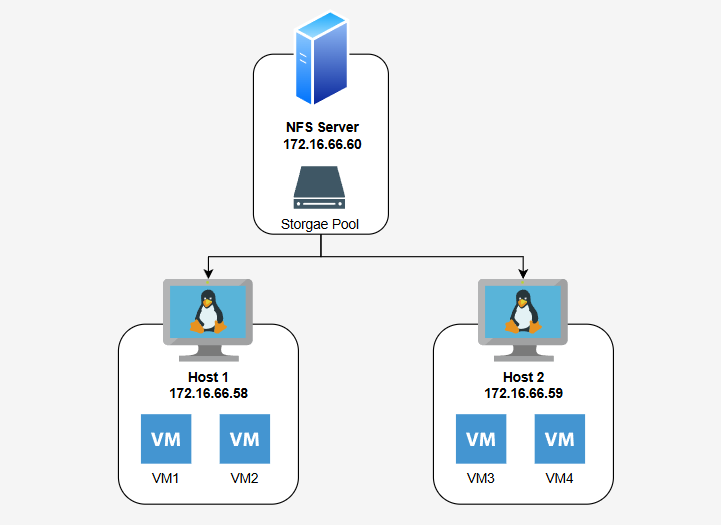
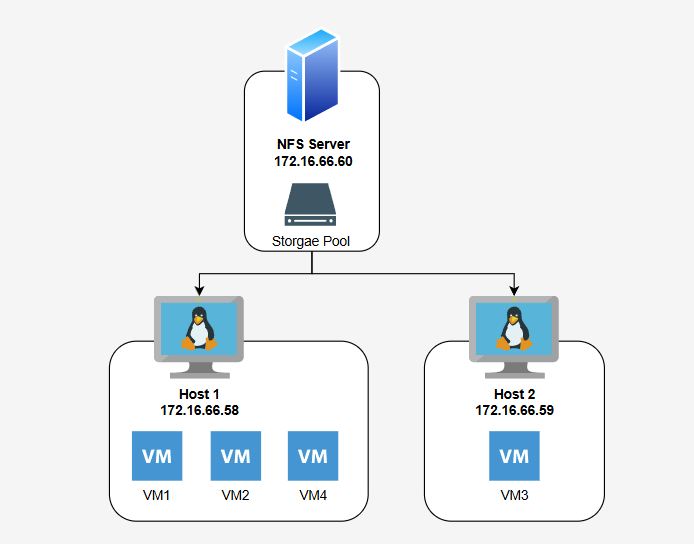
update KVMWebVirtCloud

diff --git a/DucManh/KVM/Labs/15.KVMLab07.md b/DucManh/KVM/Labs/15.KVMLab07.md
@@ -1,0 +1,204 @@
+# Triển khai và sử dụng WebVirtCloud
+## Mục tiêu
+Cài đặt thủ công và sử dụng WebVirtCloud để thực quản lý các VM trong hệ thống KVM
+
+Để hiểu sâu và nắm được bản chất cách vận hành, bài lab này sẽ thực hiện cài đặt và cấu hình thủ công
+## Mô hình
+3 thiết bị
+- `.58` Host 1
+- `.59` Host 2
+- `.60` Server
+# Phân tải hệ thống
+|Thành phần|Tài nguyên tiêu tốn chính|Nhiệm vụ chính|
+|-|-|-|
+|Compute Nodes (.58 & .59)|CPU & RAM vật lý|Chạy các vCPU, phân phối RAM ảo và thực thi lệnh ảo hóa cứng (KVM/QEMU).|
+|Management & Storage Node (.60)|I/O Ổ đĩa & Băng thông Mạng|Xử lý giao diện Web, làm NFS Storage đọc/ghi đĩa ảo và làm Proxy trung chuyển dữ liệu Console.|
+
+## Cài đặt và cấu hình WebVirtCloud
+Cài đặt các gói update và các gói hỗ trợ
+```Bash
+apt update 
+apt install -y git python3-venv python3-dev pkg-config libvirt-dev libxml2-dev libxslt1-dev gcc make supervisor nginx
+```
+Tải mã nguồn và thiết lập môi trường ảo
+```Bash
+# Clone thư mục từ github
+git clone https://github.com/retspen/webvirtcloud.git /srv/webvirtcloud
+cd /srv/webvirtcloud
+
+# Tạo và khởi chạy môi trường ảo
+python3 -m venv --system-site-packages venv
+source venv/bin/activate
+
+# Nâng cấp và cài đặt các gói cần thiết
+pip install --upgrade pip
+pip install -r conf/requirements.txt
+pip install gunicorn
+```
+
+Cấu hình Django và khởi tạo Database
+```
+# Khởi tạo file settings
+cp webvirtcloud/settings.py.template webvirtcloud/settings.py
+
+# Sinh khóa SECRET_KEY tự động cho Django
+SECRET_KEY=$(python3 -c 'import secrets; print(secrets.token_urlsafe(50))')
+# Ghi đè khóa
+sed -i "s|^SECRET_KEY = .*|SECRET_KEY = \"${SECRET_KEY}\"|" webvirtcloud/settings.py
+
+# Nạp cơ sở dữ liệu và gom file giao diện
+python3 manage.py migrate
+python3 manage.py collectstatic --noinput
+```
+Kiểm tra xuất hiện file `db.sqlite3`
+
+![alt text](/DucManh/Image/image15.png)
+
+Cấu hình Supervisor điều khiển tiến trình ngầm: Tạo file cấu hình `/etc/supervisor/conf.d/webvirtcloud.conf`:
+```TOML
+[program:webvirtcloud]
+command=/srv/webvirtcloud/venv/bin/gunicorn --bind 127.0.0.1:8000 webvirtcloud.wsgi:application
+directory=/srv/webvirtcloud
+user=www-data
+autostart=true
+autorestart=true
+redirect_stderr=true
+stdout_logfile=/var/log/supervisor/webvirtcloud.log
+
+[program:novnc]
+command=/srv/webvirtcloud/venv/bin/python /srv/webvirtcloud/console/novncd
+directory=/srv/webvirtcloud
+user=www-data
+autostart=true
+autorestart=true
+redirect_stderr=true
+stdout_logfile=/var/log/supervisor/novnc.log
+```
+- Đây là file cấu hình Supervisor, dùng để quản lý và duy trì hoạt động của hai tiến trình trong WebVirtCloud. Trong đó:
+  - `webvirtcloud` sử dụng Gunicorn để chạy ứng dụng Django, cung cấp giao diện quản lý máy ảo KVM.
+  - `novnc` sử dụng Python để chạy dịch vụ noVNC, hỗ trợ truy cập console máy ảo thông qua trình duyệt. 
+
+Cấu hình Nginx Proxy & WebSocket cho Console VNC: Tạo file cấu hình `/etc/nginx/sites-available/webvirtcloud`
+```
+upstream gunicorn_server {
+    server 127.0.0.1:8000 fail_timeout=0;
+}
+
+upstream wsnovncd {
+    server 127.0.0.1:6080;
+}
+
+server {
+    listen 80 default_server;
+    server_name _;
+
+    location /static/ {
+        alias /srv/webvirtcloud/static/;
+        expires max;
+    }
+
+    # Kết nối WebSocket Console noVNC
+    location /novncd/ {
+        proxy_pass http://wsnovncd;
+        proxy_http_version 1.1;
+        proxy_set_header Upgrade $http_upgrade;
+        proxy_set_header Connection "upgrade";
+        proxy_set_header Host $http_host;
+        proxy_set_header X-Real-IP $remote_addr;
+        proxy_set_header X-Forwarded-For $proxy_add_x_forwarded_for;
+    }
+
+    # Luồng Web App Django
+    location / {
+        proxy_pass http://gunicorn_server;
+        proxy_set_header X-Real-IP $remote_addr;
+        proxy_set_header X-Forwarded-For $proxy_add_x_forwarded_for;
+        proxy_set_header Host $http_host;
+        proxy_redirect off;
+    }
+}
+```
+- Đây là file cấu hình Nginx, đóng vai trò Reverse Proxy cho WebVirtCloud. Nginx lắng nghe các yêu cầu HTTP trên cổng 80, sau đó phân phối yêu cầu đến các dịch vụ tương ứng. Cụ thể: 
+  - `/static/` dùng để phục vụ các file tĩnh của WebVirtCloud; / chuyển tiếp yêu cầu đến Gunicorn tại `127.0.0.1:8000` để xử lý giao diện và chức năng quản lý máy ảo; 
+  - `/console/` chuyển tiếp yêu cầu đến dịch vụ noVNC tại `127.0.0.1:6080`, đồng thời cấu hình WebSocket để hỗ trợ kết nối console máy ảo. 
+  - Các chỉ thị `proxy_set_header` giúp chuyển tiếp thông tin về IP và HTTP request của người dùng đến dịch vụ phía sau.
+
+Kích hoạt site và khởi động các dịch vụ:
+```
+# Xóa default và tạo symlink 
+rm -f /etc/nginx/sites-enabled/default
+ln -s /etc/nginx/sites-available/webvirtcloud /etc/nginx/sites-enabled/
+
+# Phân quyền
+chown -R www-data:www-data /srv/webvirtcloud
+
+# Cập nhật lại supervisor
+supervisorctl reread
+supervisorctl update
+systemctl restart nginx supervisor
+```
+Kiểm tra chúng ta sẽ thấy 2 dịch vụ `novnc` và `webvirtcloud` ở trạng thái **RUNNING**:
+```
+(venv) root@manh-lab-03:/srv/webvirtcloud# supervisorctl status
+novnc                            RUNNING   pid 71617, uptime 0:00:14
+webvirtcloud                     RUNNING   pid 71618, uptime 0:00:14
+```
+## Phân phối SSH Key xác thực cho user www-data
+Khởi tạo khóa SSH và phân phối qua 2 Host (`.58`, `.59`)
+```
+# Tạo thư mục SSH và phân quyền cho user www-data
+mkdir -p /var/www/.ssh
+chown www-data:www-data /var/www/.ssh
+chmod 700 /var/www/.ssh
+
+# Tạo SSH Key 
+sudo -u www-data ssh-keygen -t rsa -b 4096 -N "" -f /var/www/.ssh/id_rsa
+
+# Đẩy public key sang Host 1 và Host 2
+sudo -u www-data ssh-copy-id root@172.16.66.58
+sudo -u www-data ssh-copy-id root@172.16.66.59
+```
+Sample:
+
+![alt text](/DucManh/Image/image16.png)
+
+Kiểm tra kết quả với câu lệnh `list` trên 2 Host:
+```
+(venv) root@manh-lab-03:/srv/webvirtcloud# sudo -u www-data ssh root@172.16.66.58 "virsh list --all"
+ Id   Name   State
+-----------------------
+ 1    vm2    running
+ -    vm1    shut off
+ -    vm4    shut off
+
+(venv) root@manh-lab-03:/srv/webvirtcloud# sudo -u www-data ssh root@172.16.66.59 "virsh list --all"
+ Id   Name   State
+----------------------
+ 1    vm3    running
+
+```
+## Kết nối Node trên Web UI
+Có thể truy cập thông qua: `http://<IP_Server>`
+
+Ví dụ ở đây tôi sẽ truy cập vào `http://172.16.66.60` vì đã xóa file mặc định của Nginx
+
+![](/DucManh/Image/image17.png)
+
+Đăng nhập:
+- account: admin
+- password: admin
+
+Khởi tạo máy chủ:
+- Vào tab: Computes
+- Chọn SSH
+- Nhập thông tin như dưới
+
+![alt text](/DucManh/Image/image18.png)
+
+Bấm trực tiếp vào Host và thao tác với máy ảo của từng Host
+
+![alt text](/DucManh/Image/image19.png)
+
+Bạn cũng có thể truy cập vào giao diện của vm thông qua WebVirtCloud
+
+![alt text](/DucManh/Image/image20.png)

diff --git a/DucManh/KVM/Docs/14.KVMWebVirtCloud.md b/DucManh/KVM/Docs/14.KVMWebVirtCloud.md
@@ -1,0 +1,94 @@
+# Quản lý hạ tầng KVM trên Ubuntu với WebVertCloud
+## Khái niệm
+Là web-based KVM management tool, mã nguồn mở, viết bằng Django(Python).(WebVirtCloud=Django app)
+
+Nó là một lớp quản lý KVM qua libvirt nhưng hiển thị dưới dạng giao diện web.
+
+Có thể coi như một giải pháp thay thế Virt-Manager GUI, nhưng chạy qua trình duyệt.
+
+## Chức năng chính
+Quản lý host: kết nối đến 1 hoặc nhiều kvm host qua SSH
+
+Quản lý VM:
+- Tạo, start, stop, restart, delete VM.
+- Snapshot, clone, migrate
+- Console VNC/SPICE ngay trên web.
+
+Quản lý Storage:
+- Upload ISO, qcow2.
+- Tạo disk mới, attack/detach disk
+
+Quản lý network:
+- Tạo và cấu hình bridge, NAT, isolated network
+
+Multi-user:
+- Có quản lý user & role (admin, user)
+- Hữu ích khi nhiều người cùng sử dụng KVM
+
+## Kiến trúc tổng thể
+Ví dụ trong hệ thống lab gồm 3 thiết bị
+```Plaintext
+[ Trình duyệt Web ] 
+       │
+       ├─ (HTTP Port 80) ──> [ Nginx Reverse Proxy ]
+       │                           │
+       │                           ├─ / ──────────> (HTTP 8000) ─> [ Gunicorn WSGI ] ─> [ Django App ]
+       │                           │                                                           │
+       │                           │                                                   (SSH / libvirt API)
+       │                           │                                                           │
+       │                           │                                                           ▼
+       │                           └─ /console/ ──> (WS 6080) ───> [ novncd Daemon ] ─> [ Host 1 & Host 2 ]
+```
+### Thành Phần
+**Django Framework**: Chịu trách nhiệm về logic quản lý máy ảo, phân quyền người dùng, dựng cấu hình XML và giao tiếp với KVM qua thư viện libvirt-python.
+
+**Gunicorn (WSGI HTTP Server)**: Chạy ứng dụng Django dưới dạng tiến trình backend lắng nghe ở cổng nội bộ 127.0.0.1:8000.
+
+**novncd (noVNC Daemon)**: Script Python đi kèm WebVirtCloud, làm proxy chuyển đổi giữa giao thức VNC thuần (từ KVM Node) sang WebSocket để truyền hình ảnh màn hình console VM lên trình duyệt.
+
+**Nginx (Reverse Proxy)**: Đứng ở cổng 80, điều hướng truy vấn HTTP thường vào Gunicorn và truy vấn WebSocket vào novncd.
+
+**Supervisor**: Tiến trình quản lý ngầm, đảm bảo Gunicorn và novncd luôn chạy và tự khởi động lại nếu bị crash.
+
+**SSH Key**: Xác thực không mật khẩu giúp WebVirtCloud gửi câu lệnh Libvirt từ NFS Server sang Host 1 (`172.16.66.58`) và Host 2 (`172.16.66.59`).
+### Mô tả luồng
+Mô hình hoạt động của toàn bộ hệ thống được vận hành dựa trên sự kết hợp chặt chẽ giữa 3 luồng xử lý độc lập: Luồng Quản trị & Điều khiển (Management), Luồng Lưu trữ (Storage), và Luồng Hiển thị (Console Proxy).
+
+#### Luồng Quản trị & Điều khiển (Management Flow)
+```Plaintext
+[Trình duyệt] ──(HTTP:80)──> [Nginx .60] ──> [Gunicorn:8000] ──> [Django App]
+                                                                        │
+                                                               (SSH / libvirt)
+                                                                        │
+                                                                        ▼
+                                                          [libvirtd trên .58 / .59]
+```
+Yêu cầu từ Admin: Khi thao tác trên Web UI (ví dụ: Bật/Tắt VM, tạo VM mới), trình duyệt gửi HTTP Request tới Nginx trên máy quản lý `.60`.
+
+Xử lý ứng dụng: Nginx điều hướng request cho Gunicorn (cổng 8000) để ứng dụng WebVirtCloud (Django) xử lý logic.
+
+Thực thi lệnh KVM: Django App sử dụng SSH Key của user www-data để kết nối SSH không mật khẩu sang Host 1 (`172.16.66.58`) hoặc Host 2 (`172.16.66.59`), gọi trực tiếp API của dịch vụ libvirtd để điều khiển QEMU/KVM bên dưới.
+
+#### Luồng Đọc/Ghi Dữ liệu Đĩa ảo (Storage I/O Flow)
+```Plaintext
+[Host 1 (.58) / Host 2 (.59)] ◄── NFS Mount (/var/lib/libvirt/images) ──► [NFS Server .60]
+  ├── Running VM2 (Linked Clone) ──► Đọc ubuntu-template.qcow2 & Ghi vm2.qcow2
+  └── Running VM3 (Full Clone)   ──► Đọc/Ghi trực tiếp vm3.qcow2
+```
+Kết nối lưu trữ: Host 1 và Host 2 mount chung thư mục /var/lib/libvirt/images từ NFS Server (`.60`).
+
+Hoạt động của Linked Clone (VM2 trên Host 1): Khi VM2 vận hành, KVM trên Host 1 gửi yêu cầu đọc dữ liệu hệ điều hành gốc từ file `ubuntu-template.qcow2` qua mạng NFS, đồng thời ghi dữ liệu thay đổi phát sinh vào `vm2.qcow2`.
+
+Hoạt động của Full Clone (VM3 trên Host 2): KVM trên Host 2 thực hiện đọc/ghi độc lập hoàn toàn trên file `vm3.qcow2` nằm trên NFS.
+
+#### Luồng Hiển thị Màn hình Console (noVNC / WebSocket Flow)
+```Plaintext
+[Trình duyệt] ──(WebSocket)──> [Nginx .60] ──> [novncd:6080] ──(VNC:5900+)──> [VM trên Host .58/.59]
+```
+Khởi tạo kết nối: Khi bấm mở thẻ Console trên Web UI, trình duyệt mở một kết nối WebSocket tới Nginx (đường dẫn /console/).
+
+Chuyển tiếp WebSocket: Nginx nhận diện header Upgrade: websocket và chuyển tiếp luồng dữ liệu tới daemon novncd (chạy cổng 6080 trên .60).
+
+Bắt cầu VNC: novncd mở kết nối VNC tới cổng VNC nội bộ (mặc định 5900, 5901...) của máy ảo tương ứng đang chạy ở Host 1 (`.58`) hoặc Host 2 (`.59`).
+
+Hiển thị: `novncd` đóng vai trò phiên dịch dữ liệu giữa giao thức VNC thuần và WebSocket, hiển thị hình ảnh màn hình OS trực tiếp lên giao diện HTML5 của trình duyệt
